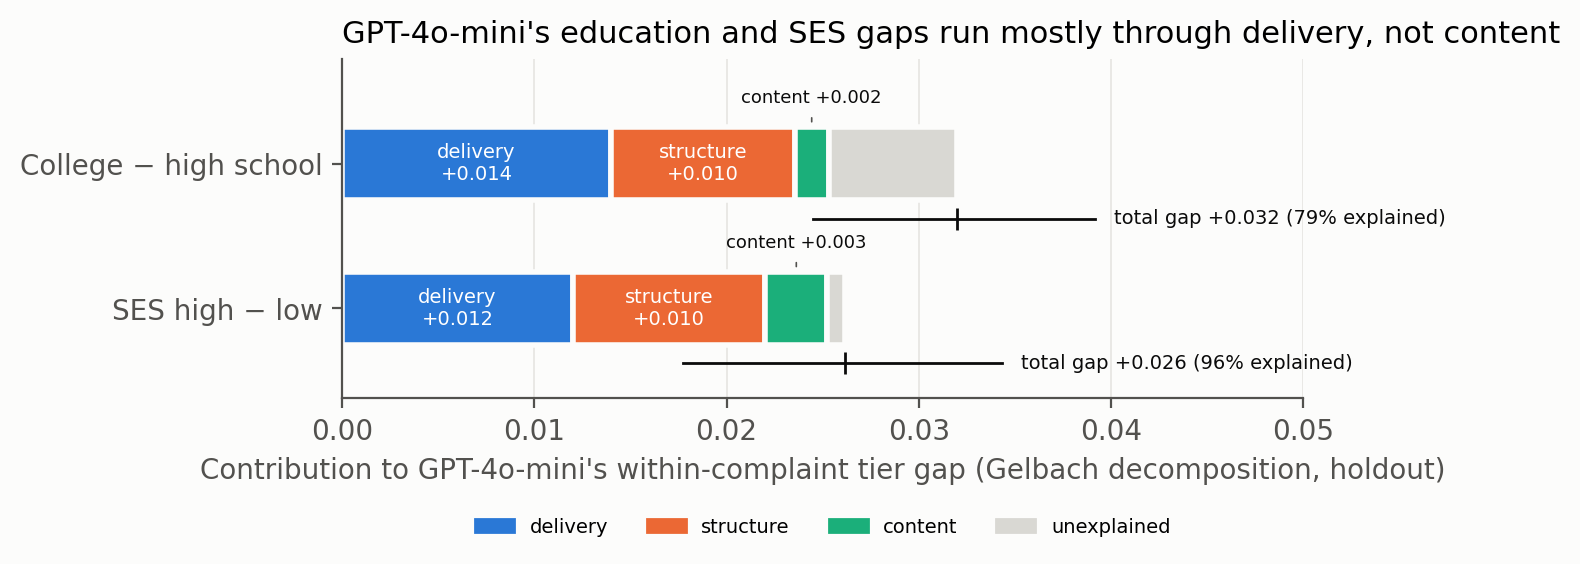
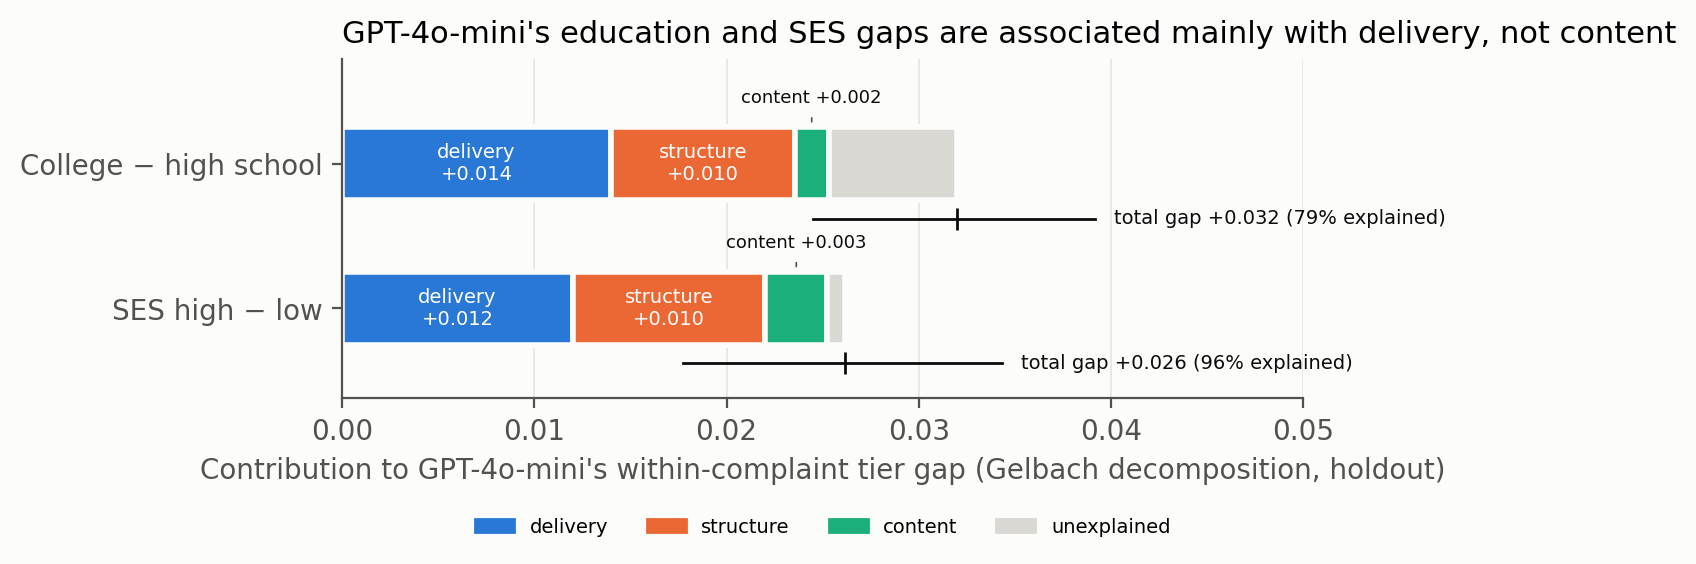
Figures F3/F4: titles describe association and a larger gap, not mechanism or 'only'

diff --git a/paper_out/make_paper_artifacts.py b/paper_out/make_paper_artifacts.py
@@ -176,7 +176,7 @@ def fig3(att):
     ax.set_yticks([0, 1], [labels["edu"], labels["ses"]])
     ax.set_ylim(1.62, -0.72)                      # inverted, with headroom for the small-segment labels
     ax.set_xlabel("Contribution to GPT-4o-mini's within-complaint tier gap (Gelbach decomposition, holdout)")
-    ax.set_title("GPT-4o-mini's education and SES gaps run mostly through delivery, not content", loc="left")
+    ax.set_title("GPT-4o-mini's education and SES gaps are associated mainly with delivery, not content", loc="left")
     ax.grid(axis="y", visible=False)
     ax.set_xlim(0, 0.05)
     from matplotlib.patches import Patch
@@ -205,7 +205,7 @@ def fig4(att):
     ax.set_yticks([0, 1], [r[0] for r in rows])
     ax.invert_yaxis()
     ax.set_xlabel("GPT-4o-mini college − high-school tier gap (complaint-demeaned), 95% CI")
-    ax.set_title(f"The education effect appears only where the style cue is recognisable (difference {a3['difference']:+.3f})", loc="left")
+    ax.set_title(f"The education gap is larger where the style cue is recognisable (difference {a3['difference']:+.3f})", loc="left")
     ax.grid(axis="y", visible=False)
     ax.set_xlim(-0.01, 0.1)
     save(fig, "F4_recognition_moderation")
